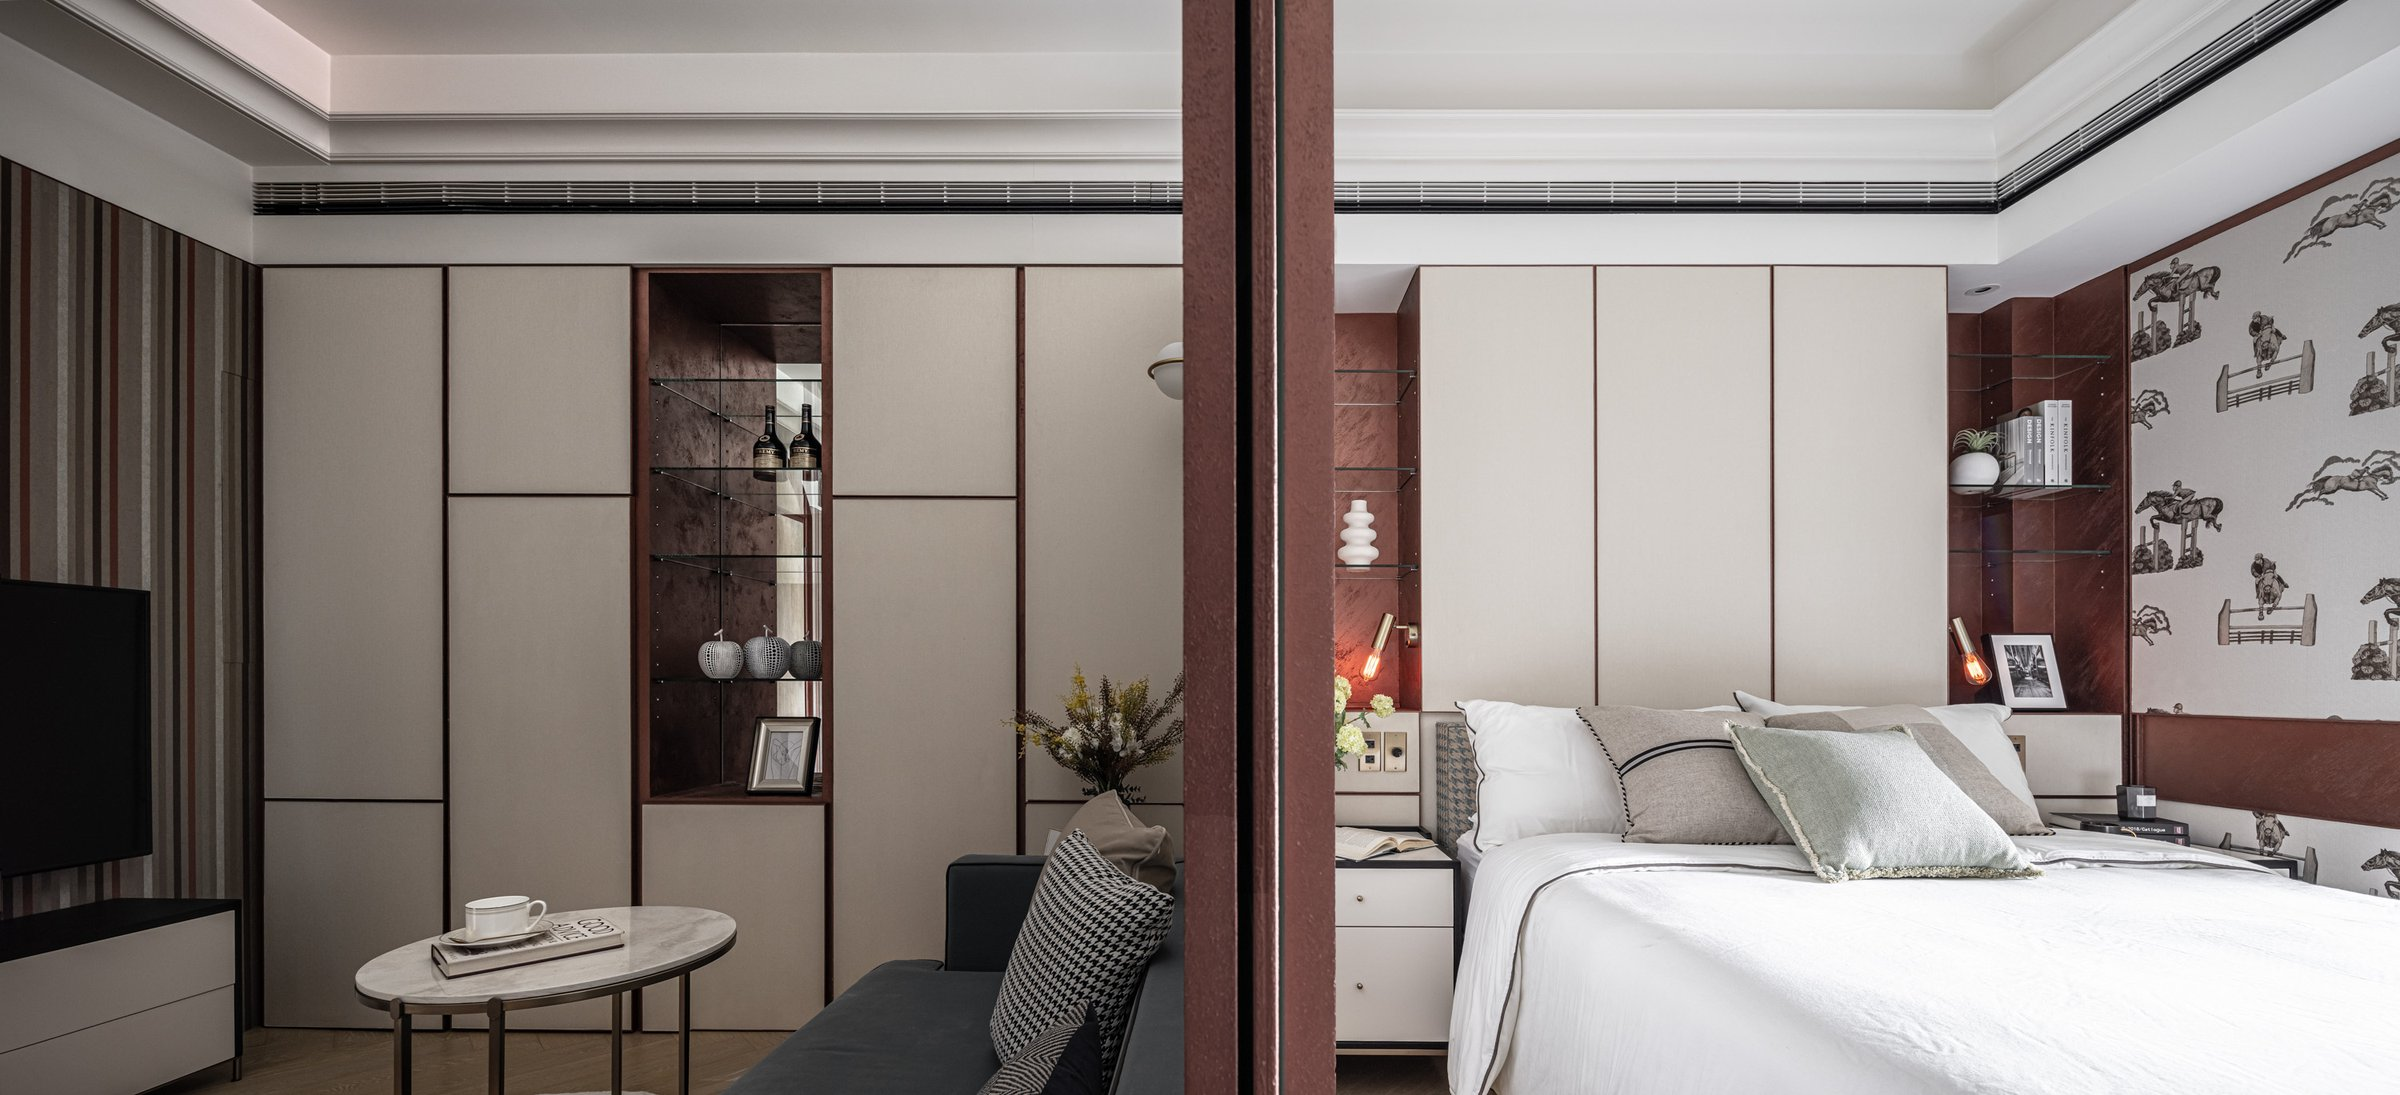
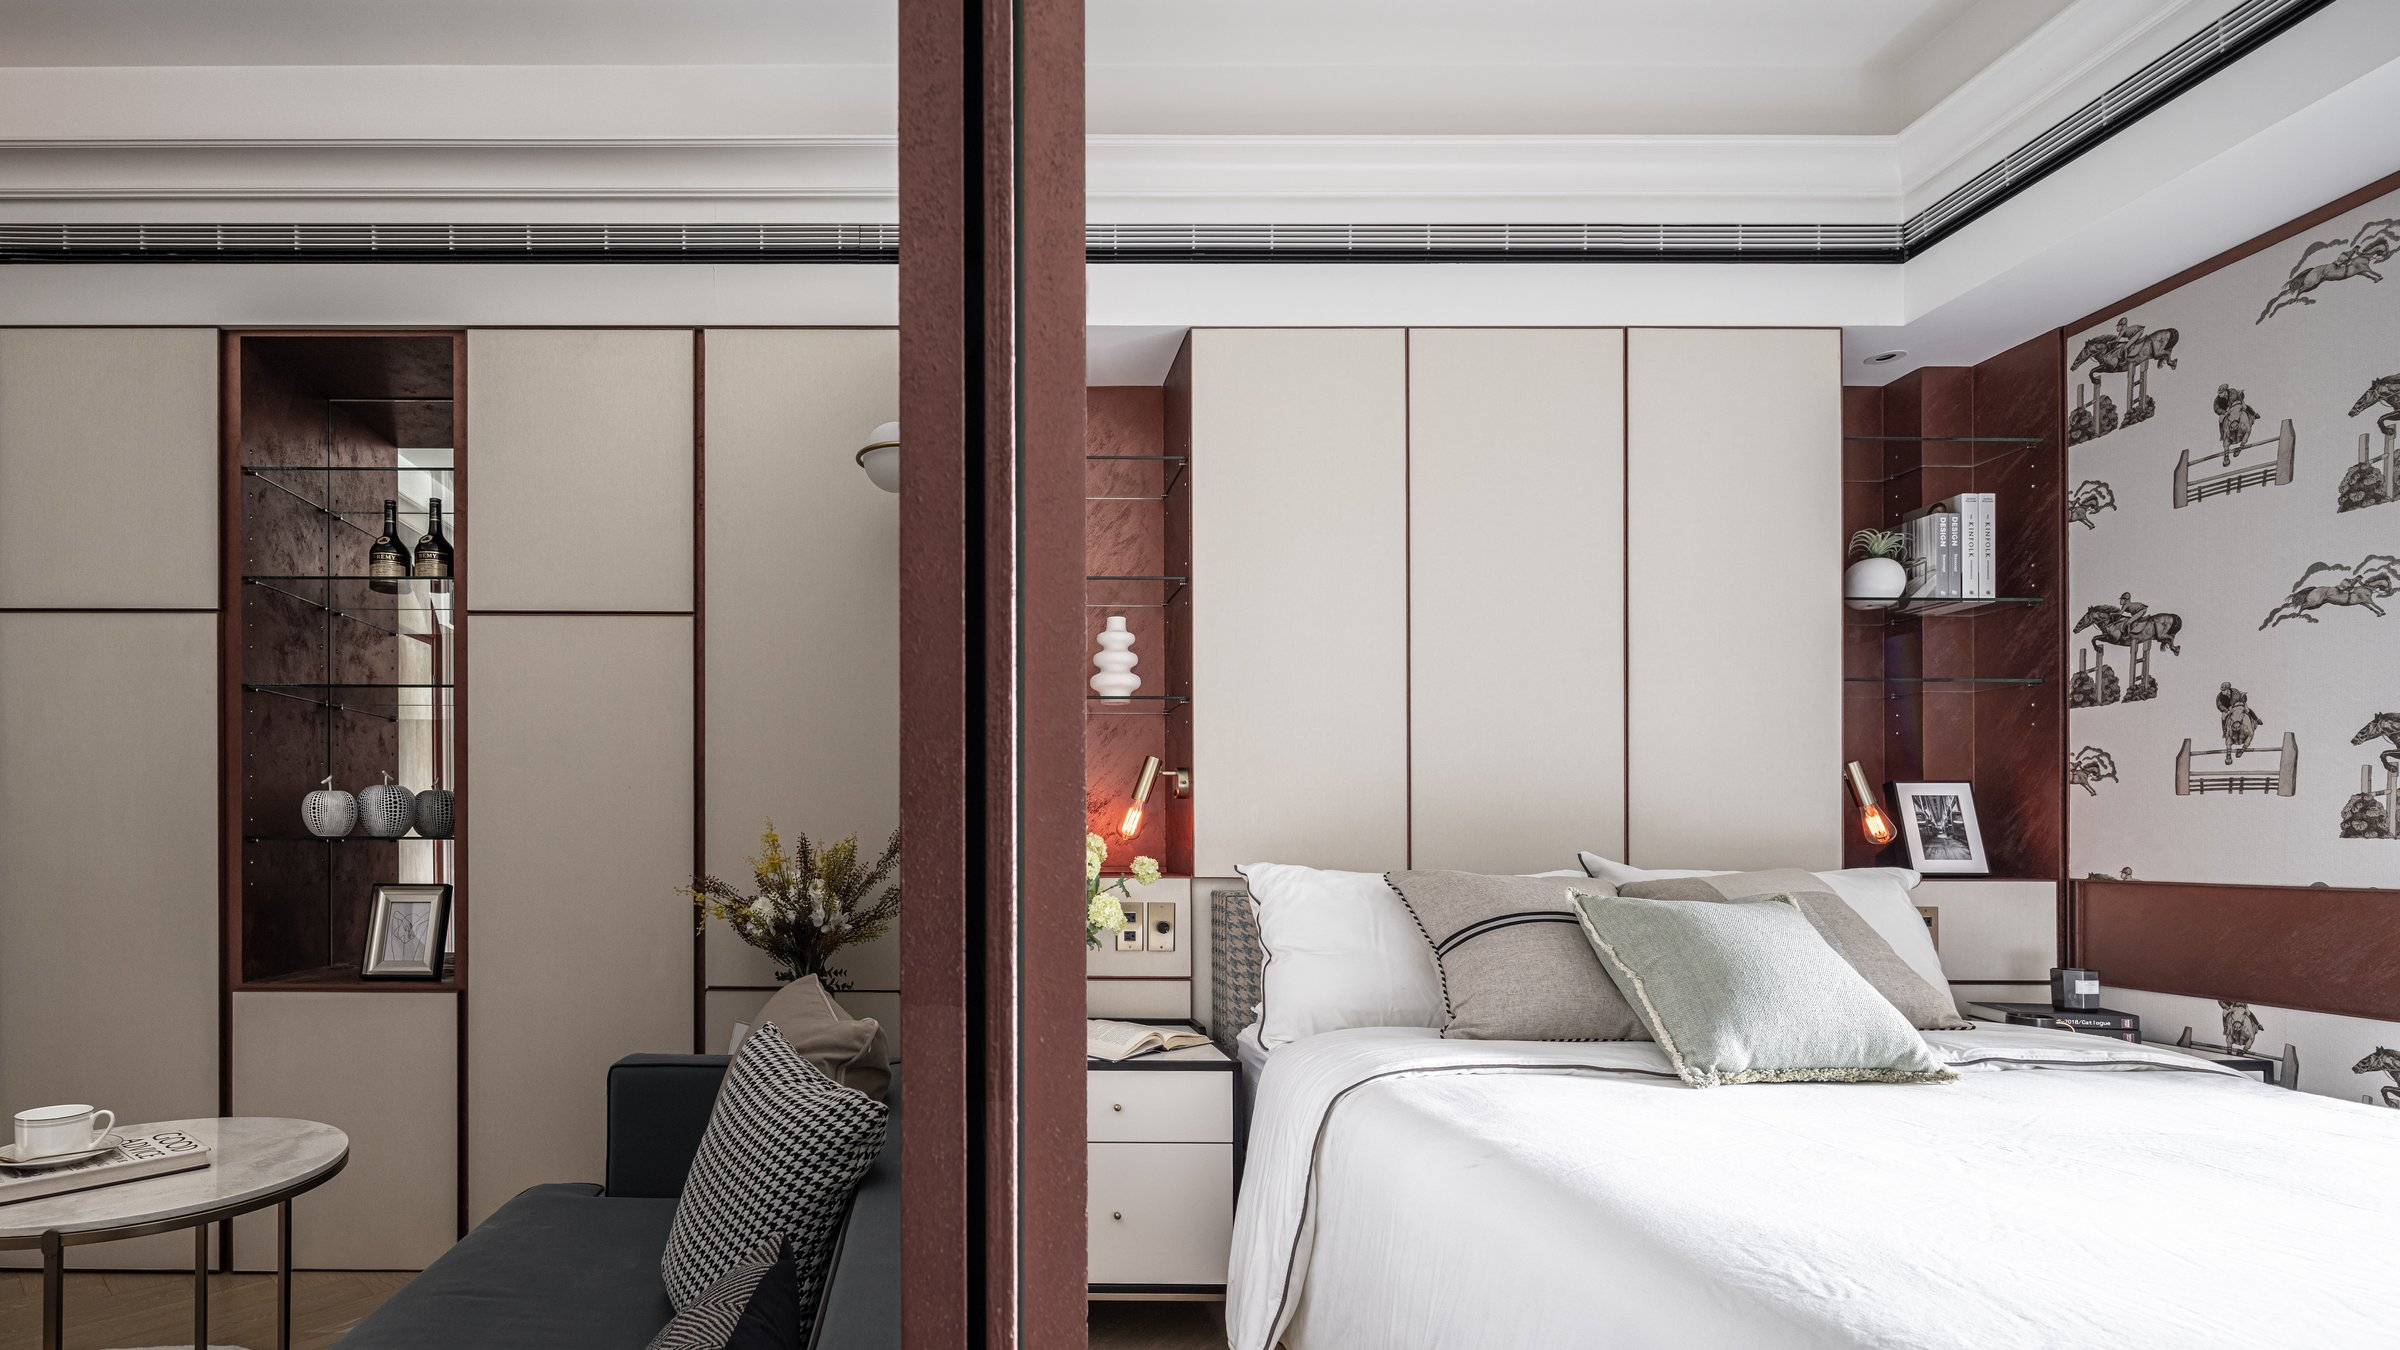
fix: Residence K hero 改為 16:9 裁切 (v2.55)
- 原本 2400×1095（2.19:1）在不裁切版面下被壓成細長條
- 從崴米思原始檔 _WEI0207 由左側裁成 16:9，重出 2400×1350
- 保留客廳壁龕與沙發、鏽紅柱子與臥室同框
- hero 圖片網址加 ?v=2 避免快取舊圖

diff --git a/residential/residence-k/index.html b/residential/residence-k/index.html
@@ -58,7 +58,7 @@
 </nav>
 
 <div class="hero">
-  <picture><source srcset="../../images/residence-k/00.webp" type="image/webp"><img width="2400" height="1095" src="../../images/residence-k/00.jpg" fetchpriority="high" loading="eager" decoding="async" alt="Residence K｜住家空間設計 — 客廳與臥室同框，天花上的出風口從客廳一路延伸到臥室"></picture>
+  <picture><source srcset="../../images/residence-k/00.webp?v=2" type="image/webp"><img width="2400" height="1350" src="../../images/residence-k/00.jpg?v=2" fetchpriority="high" loading="eager" decoding="async" alt="Residence K｜住家空間設計 — 客廳與臥室同框，天花上的出風口從客廳一路延伸到臥室"></picture>
   <div class="hero-caption">
     <h1 class="hero-title">Residence K</h1>
     <p class="hero-tags">住家空間 &middot; Taipei</p>

diff --git a/en/index.html b/en/index.html
@@ -325,7 +325,7 @@ a{color:#fafaf8;text-decoration:none}
 <a href="/" style="position:fixed;top:1.6rem;right:1.8rem;z-index:40;font-size:10px;letter-spacing:.18em;color:rgba(255,255,255,.4);text-decoration:none;border-bottom:0.5px solid rgba(255,255,255,.18);padding-bottom:2px;transition:color .2s">中文</a>
 
 <!-- 版本標記 -->
-<div style="position:fixed;bottom:10px;right:12px;z-index:30;font-size:9px;letter-spacing:.1em;color:rgba(255,255,255,.18);pointer-events:none">v2.54</div>
+<div style="position:fixed;bottom:10px;right:12px;z-index:30;font-size:9px;letter-spacing:.1em;color:rgba(255,255,255,.18);pointer-events:none">v2.55</div>
 
 <script>
 setTimeout(()=>{

diff --git a/index.html b/index.html
@@ -325,7 +325,7 @@ a{color:#fafaf8;text-decoration:none}
 <a href="/en/" style="position:fixed;top:1.6rem;right:1.8rem;z-index:40;font-size:10px;letter-spacing:.18em;color:rgba(255,255,255,.4);text-decoration:none;border-bottom:0.5px solid rgba(255,255,255,.18);padding-bottom:2px;transition:color .2s">EN</a>
 
 <!-- 版本標記 -->
-<div style="position:fixed;bottom:10px;right:12px;z-index:30;font-size:9px;letter-spacing:.1em;color:rgba(255,255,255,.18);pointer-events:none">v2.54</div>
+<div style="position:fixed;bottom:10px;right:12px;z-index:30;font-size:9px;letter-spacing:.1em;color:rgba(255,255,255,.18);pointer-events:none">v2.55</div>
 
 <script>
 setTimeout(()=>{
